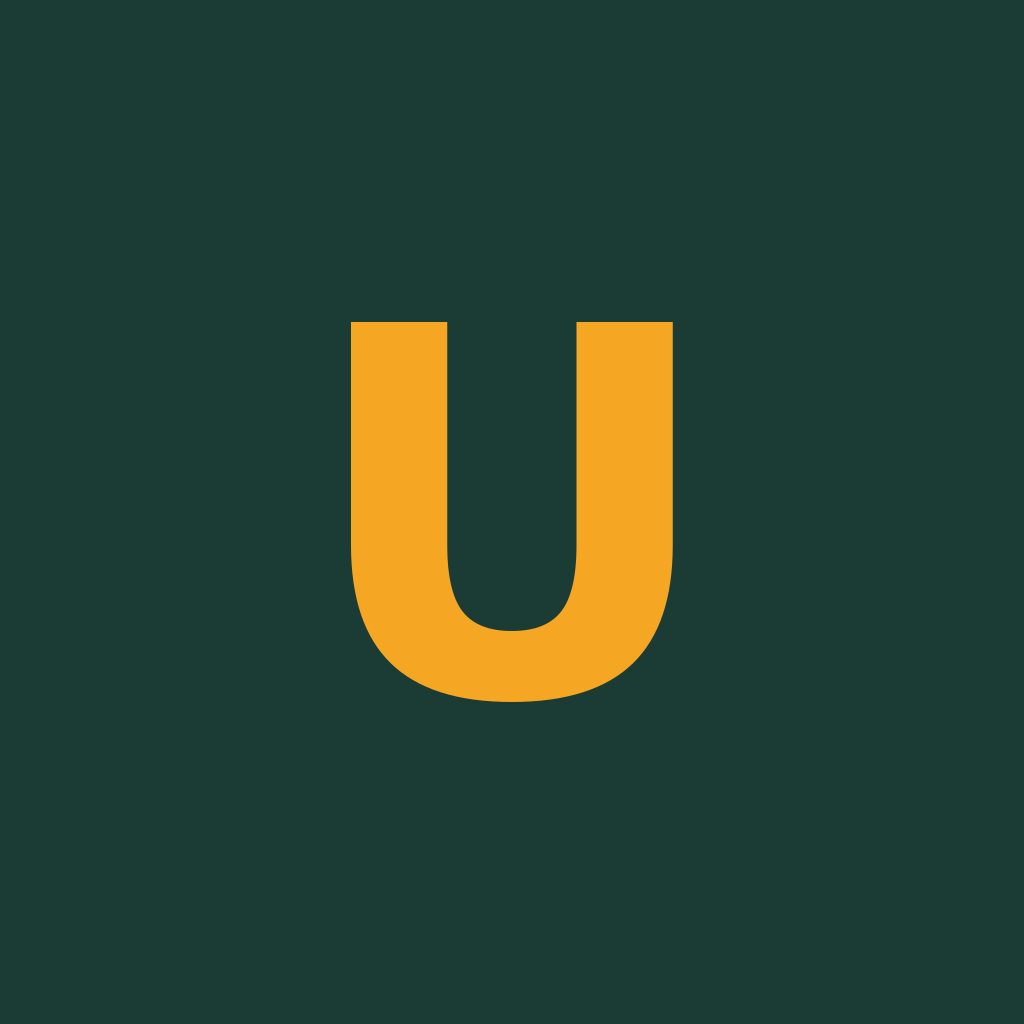
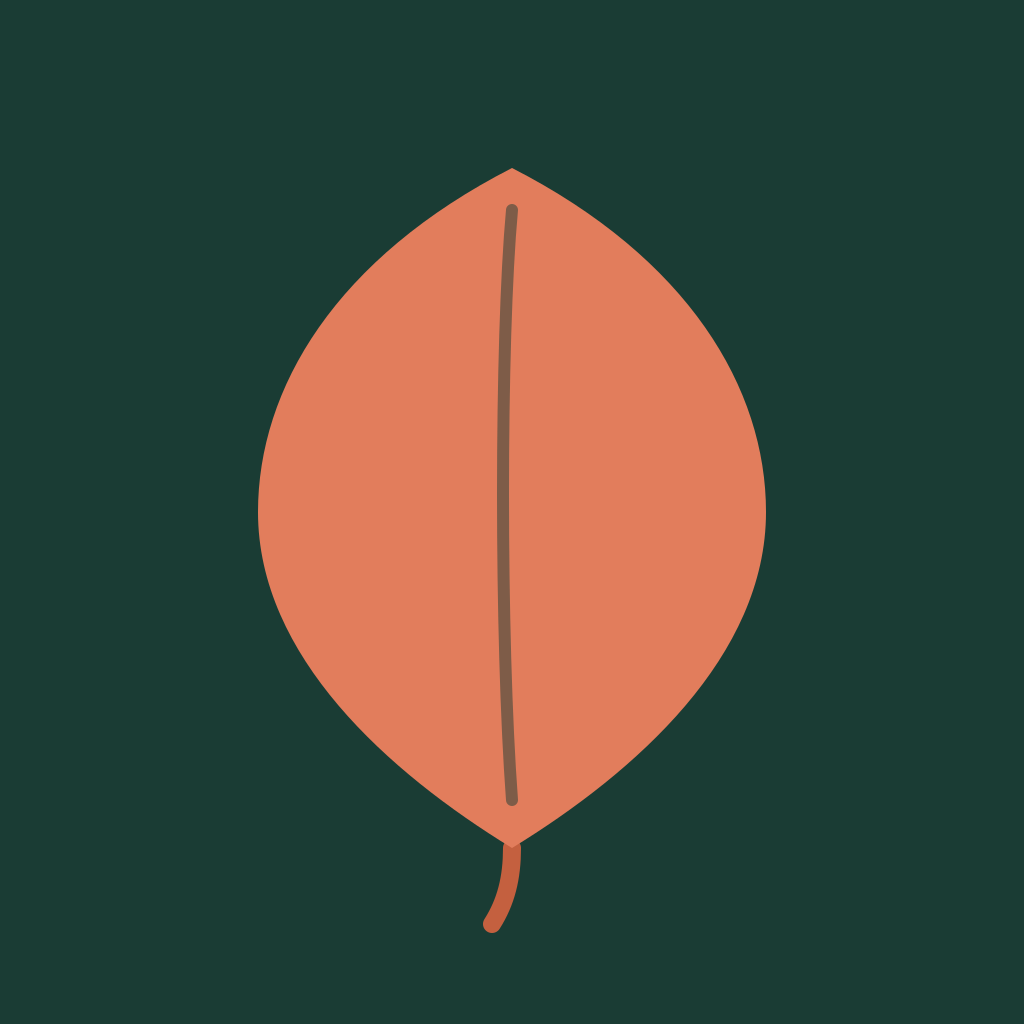
Polish pass: real branding, pull-to-refresh, and inline form validation
- Replace the placeholder "U" lettermark icon/splash with a coral leaf mark
  on forest green, matching the app's actual color identity
- Add pull-to-refresh to Buyer Dashboard, My Crops, and Vendor Dashboard so
  data can be refreshed in place instead of navigating away and back
- Validate email format and required fields client-side on Signup/Login
  with inline error messages, instead of only surfacing Firebase's generic
  error after a round trip

Changed region(s): [[0.25, 0.1562, 0.75, 0.9062]]

diff --git a/src/screens/onboarding/SignupScreen.jsx b/src/screens/onboarding/SignupScreen.jsx
@@ -14,6 +14,8 @@ const ROLES = [
   { key: "admin", icon: "🛡", title: "Admin", subtitle: "Platform admin" },
 ];
 
+const EMAIL_RE = /^[^\s@]+@[^\s@]+\.[^\s@]+$/;
+
 export default function SignupScreen({ navigation }) {
   const [role, setRole] = useState("farmer");
   const [name, setName] = useState("");
@@ -23,6 +25,7 @@ export default function SignupScreen({ navigation }) {
   const [state, setState] = useState("");
   const [district, setDistrict] = useState("");
   const [loading, setLoading] = useState(false);
+  const [errors, setErrors] = useState({});
 
   const setUser = useAuthStore((s) => s.setUser);
   const setSeller = useAuthStore((s) => s.setSeller);
@@ -40,15 +43,20 @@ export default function SignupScreen({ navigation }) {
     setRole(key);
   };
 
+  const validate = () => {
+    const next = {};
+    if (!name.trim()) next.name = "Enter your full name.";
+    if (!/^\d{10}$/.test(phone.trim())) next.phone = "Enter a 10-digit phone number.";
+    if (!EMAIL_RE.test(email.trim())) next.email = "Enter a valid email address.";
+    if (password.length < 6) next.password = "Password must be at least 6 characters.";
+    if (!state.trim()) next.state = "Enter your state.";
+    if (!district.trim()) next.district = "Enter your district.";
+    setErrors(next);
+    return Object.keys(next).length === 0;
+  };
+
   const handleCreateAccount = async () => {
-    if (!name.trim() || !phone.trim() || !email.trim() || !password || !state.trim() || !district.trim()) {
-      Alert.alert("Missing info", "Please fill in every field.");
-      return;
-    }
-    if (password.length < 6) {
-      Alert.alert("Weak password", "Password must be at least 6 characters.");
-      return;
-    }
+    if (!validate()) return;
     setLoading(true);
     try {
       const firebaseUser = await signUpWithEmail(email.trim(), password);
@@ -104,28 +112,34 @@ export default function SignupScreen({ navigation }) {
       <View style={styles.row}>
         <View style={styles.col}>
           <Text style={styles.label}>Full Name</Text>
-          <TextInput style={styles.input} value={name} onChangeText={setName} placeholderTextColor={colors.textMuted} />
+          <TextInput style={[styles.input, errors.name && styles.inputError]} value={name} onChangeText={setName} placeholderTextColor={colors.textMuted} />
+          {errors.name && <Text style={styles.errorText}>{errors.name}</Text>}
         </View>
         <View style={styles.col}>
           <Text style={styles.label}>Phone</Text>
-          <TextInput style={styles.input} value={phone} onChangeText={setPhone} keyboardType="phone-pad" placeholderTextColor={colors.textMuted} />
+          <TextInput style={[styles.input, errors.phone && styles.inputError]} value={phone} onChangeText={setPhone} keyboardType="phone-pad" maxLength={10} placeholderTextColor={colors.textMuted} />
+          {errors.phone && <Text style={styles.errorText}>{errors.phone}</Text>}
         </View>
       </View>
 
       <Text style={styles.label}>Email</Text>
-      <TextInput style={styles.input} value={email} onChangeText={setEmail} keyboardType="email-address" autoCapitalize="none" placeholderTextColor={colors.textMuted} />
+      <TextInput style={[styles.input, errors.email && styles.inputError]} value={email} onChangeText={setEmail} keyboardType="email-address" autoCapitalize="none" placeholderTextColor={colors.textMuted} />
+      {errors.email && <Text style={styles.errorText}>{errors.email}</Text>}
 
       <Text style={styles.label}>Password</Text>
-      <TextInput style={styles.input} value={password} onChangeText={setPassword} secureTextEntry placeholderTextColor={colors.textMuted} />
+      <TextInput style={[styles.input, errors.password && styles.inputError]} value={password} onChangeText={setPassword} secureTextEntry placeholderTextColor={colors.textMuted} />
+      {errors.password && <Text style={styles.errorText}>{errors.password}</Text>}
 
       <View style={styles.row}>
         <View style={styles.col}>
           <Text style={styles.label}>State</Text>
-          <TextInput style={styles.input} value={state} onChangeText={setState} placeholderTextColor={colors.textMuted} />
+          <TextInput style={[styles.input, errors.state && styles.inputError]} value={state} onChangeText={setState} placeholderTextColor={colors.textMuted} />
+          {errors.state && <Text style={styles.errorText}>{errors.state}</Text>}
         </View>
         <View style={styles.col}>
           <Text style={styles.label}>District</Text>
-          <TextInput style={styles.input} value={district} onChangeText={setDistrict} placeholderTextColor={colors.textMuted} />
+          <TextInput style={[styles.input, errors.district && styles.inputError]} value={district} onChangeText={setDistrict} placeholderTextColor={colors.textMuted} />
+          {errors.district && <Text style={styles.errorText}>{errors.district}</Text>}
         </View>
       </View>
 
@@ -163,6 +177,8 @@ const styles = StyleSheet.create({
   col: { flex: 1 },
   label: { ...typography.caption, color: colors.textPrimary, fontWeight: "600", marginTop: spacing.md, marginBottom: spacing.xs },
   input: { borderWidth: 1, borderColor: colors.border, borderRadius: spacing.buttonRadius, padding: spacing.md, backgroundColor: colors.white, ...typography.body, color: colors.textPrimary },
+  inputError: { borderColor: colors.error },
+  errorText: { ...typography.caption, color: colors.error, marginTop: 4 },
   submitBtn: { backgroundColor: colors.primary, borderRadius: spacing.buttonRadius, paddingVertical: spacing.md, alignItems: "center", marginTop: spacing.xl, minHeight: spacing.minTouchTarget, justifyContent: "center" },
   submitBtnText: { color: colors.white, fontWeight: "700", fontSize: 16 },
   loginLink: { alignItems: "center", marginTop: spacing.lg, minHeight: spacing.minTouchTarget, justifyContent: "center" },

diff --git a/src/screens/onboarding/LoginScreen.jsx b/src/screens/onboarding/LoginScreen.jsx
@@ -1,27 +1,35 @@
 import { useState } from "react";
-import { View, Text, TextInput, TouchableOpacity, StyleSheet, ActivityIndicator, Alert } from "react-native";
+import { View, Text, TextInput, TouchableOpacity, StyleSheet, ActivityIndicator } from "react-native";
 import { colors } from "../../theme/colors";
 import { typography } from "../../theme/typography";
 import { spacing } from "../../theme/spacing";
 import { loginWithEmail } from "../../services/firebase/auth";
 
+const EMAIL_RE = /^[^\s@]+@[^\s@]+\.[^\s@]+$/;
+
 export default function LoginScreen({ navigation }) {
   const [email, setEmail] = useState("");
   const [password, setPassword] = useState("");
   const [loading, setLoading] = useState(false);
+  const [error, setError] = useState(null);
 
   const handleLogin = async () => {
-    if (!email.trim() || !password) {
-      Alert.alert("Missing info", "Enter your email and password.");
+    if (!EMAIL_RE.test(email.trim())) {
+      setError("Enter a valid email address.");
       return;
     }
+    if (!password) {
+      setError("Enter your password.");
+      return;
+    }
+    setError(null);
     setLoading(true);
     try {
       await loginWithEmail(email.trim(), password);
       // AppNavigator's onAuthStateChanged listener picks this up and routes
       // to the right dashboard once it loads the matching profile.
     } catch (e) {
-      Alert.alert("Login failed", "Invalid email or password.");
+      setError("Invalid email or password.");
     } finally {
       setLoading(false);
     }
@@ -31,6 +39,12 @@ export default function LoginScreen({ navigation }) {
     <View style={styles.screen}>
       <Text style={styles.title}>Welcome back</Text>
       <Text style={styles.subtitle}>Sign in to continue.</Text>
+
+      {error && (
+        <View style={styles.errorBanner}>
+          <Text style={styles.errorBannerText}>{error}</Text>
+        </View>
+      )}
 
       <Text style={styles.label}>Email</Text>
       <TextInput style={styles.input} value={email} onChangeText={setEmail} keyboardType="email-address" autoCapitalize="none" placeholderTextColor={colors.textMuted} />
@@ -53,6 +67,8 @@ const styles = StyleSheet.create({
   screen: { flex: 1, backgroundColor: colors.background, padding: spacing.screenPadding, justifyContent: "center" },
   title: { ...typography.h2, color: colors.textPrimary },
   subtitle: { ...typography.body, color: colors.textMuted, marginTop: spacing.xs, marginBottom: spacing.lg },
+  errorBanner: { backgroundColor: "#FDECEA", padding: spacing.md, borderRadius: spacing.cardRadius, marginBottom: spacing.md },
+  errorBannerText: { ...typography.caption, color: colors.error },
   label: { ...typography.caption, color: colors.textPrimary, fontWeight: "600", marginTop: spacing.md, marginBottom: spacing.xs },
   input: { borderWidth: 1, borderColor: colors.border, borderRadius: spacing.buttonRadius, padding: spacing.md, backgroundColor: colors.white, ...typography.body, color: colors.textPrimary },
   submitBtn: { backgroundColor: colors.primary, borderRadius: spacing.buttonRadius, paddingVertical: spacing.md, alignItems: "center", marginTop: spacing.xl, minHeight: spacing.minTouchTarget, justifyContent: "center" },

diff --git a/src/screens/seller/SellerDashboardScreen.jsx b/src/screens/seller/SellerDashboardScreen.jsx
@@ -1,5 +1,5 @@
-import { useEffect, useState } from "react";
-import { View, Text, StyleSheet, FlatList, TouchableOpacity, Alert } from "react-native";
+import { useCallback, useEffect, useState } from "react";
+import { View, Text, StyleSheet, FlatList, TouchableOpacity, Alert, RefreshControl } from "react-native";
 import { colors } from "../../theme/colors";
 import { typography } from "../../theme/typography";
 import { spacing } from "../../theme/spacing";
@@ -23,6 +23,14 @@ export default function SellerDashboardScreen({ navigation }) {
   const [pendingOrders, setPendingOrders] = useState([]);
   const [allOrders, setAllOrders] = useState([]);
   const [loadError, setLoadError] = useState(null);
+  const [refreshing, setRefreshing] = useState(false);
+
+  const loadOrders = useCallback(() => {
+    if (!seller?.uid) return Promise.resolve();
+    return getSellerOrders(seller.uid)
+      .then(({ orders }) => setAllOrders(orders))
+      .catch((error) => setLoadError(error.message));
+  }, [seller?.uid]);
 
   useEffect(() => {
     if (!seller?.uid) return;
@@ -30,11 +38,15 @@ export default function SellerDashboardScreen({ navigation }) {
     const unsubscribe = listenToSellerPendingOrders(seller.uid, setPendingOrders, (error) =>
       setLoadError(error.message)
     );
-    getSellerOrders(seller.uid)
-      .then(({ orders }) => setAllOrders(orders))
-      .catch((error) => setLoadError(error.message));
+    loadOrders();
     return unsubscribe;
-  }, [seller?.uid]);
+  }, [seller?.uid, loadOrders]);
+
+  const handleRefresh = () => {
+    setRefreshing(true);
+    setLoadError(null);
+    loadOrders().finally(() => setRefreshing(false));
+  };
 
   const todayOrders = allOrders.filter((o) => isToday(o.createdAt));
   const todayGmv = todayOrders.reduce((sum, o) => sum + (o.total || 0), 0);
@@ -97,6 +109,7 @@ export default function SellerDashboardScreen({ navigation }) {
         data={allOrders}
         keyExtractor={(item) => item.id}
         contentContainerStyle={styles.list}
+        refreshControl={<RefreshControl refreshing={refreshing} onRefresh={handleRefresh} colors={[colors.primary]} tintColor={colors.primary} />}
         ListHeaderComponent={
           pendingOrders.length > 0 && (
             <View style={styles.pendingSection}>

diff --git a/src/screens/farmer/MyCropsScreen.jsx b/src/screens/farmer/MyCropsScreen.jsx
@@ -1,6 +1,6 @@
 import { useCallback, useState } from "react";
 import { useFocusEffect } from "@react-navigation/native";
-import { View, Text, StyleSheet, TouchableOpacity, FlatList, ActivityIndicator } from "react-native";
+import { View, Text, StyleSheet, TouchableOpacity, FlatList, ActivityIndicator, RefreshControl } from "react-native";
 import { colors } from "../../theme/colors";
 import { typography } from "../../theme/typography";
 import { spacing } from "../../theme/spacing";
@@ -16,22 +16,31 @@ export default function MyCropsScreen({ navigation }) {
   const { user } = useAuthStore();
   const [listings, setListings] = useState([]);
   const [loading, setLoading] = useState(true);
+  const [refreshing, setRefreshing] = useState(false);
   const [loadError, setLoadError] = useState(false);
+
+  const loadListings = useCallback(() => {
+    if (!user?.uid) return Promise.resolve();
+    setLoadError(false);
+    return getFarmerCropListings(user.uid)
+      .then(setListings)
+      .catch((error) => {
+        console.error("getFarmerCropListings failed:", error);
+        setLoadError(true);
+      });
+  }, [user?.uid]);
 
   useFocusEffect(
     useCallback(() => {
-      if (!user?.uid) return;
       setLoading(true);
-      setLoadError(false);
-      getFarmerCropListings(user.uid)
-        .then(setListings)
-        .catch((error) => {
-          console.error("getFarmerCropListings failed:", error);
-          setLoadError(true);
-        })
-        .finally(() => setLoading(false));
-    }, [user?.uid])
+      loadListings().finally(() => setLoading(false));
+    }, [loadListings])
   );
+
+  const handleRefresh = () => {
+    setRefreshing(true);
+    loadListings().finally(() => setRefreshing(false));
+  };
 
   return (
     <View style={styles.screen}>
@@ -58,6 +67,7 @@ export default function MyCropsScreen({ navigation }) {
           data={listings}
           keyExtractor={(item) => item.id}
           contentContainerStyle={styles.list}
+          refreshControl={<RefreshControl refreshing={refreshing} onRefresh={handleRefresh} colors={[colors.primary]} tintColor={colors.primary} />}
           renderItem={({ item }) => (
             <View style={styles.card}>
               <View style={{ flex: 1 }}>

diff --git a/src/screens/buyer/BuyerDashboardScreen.jsx b/src/screens/buyer/BuyerDashboardScreen.jsx
@@ -1,5 +1,5 @@
-import { useEffect, useState } from "react";
-import { View, Text, StyleSheet, TouchableOpacity, FlatList, ActivityIndicator } from "react-native";
+import { useCallback, useEffect, useState } from "react";
+import { View, Text, StyleSheet, TouchableOpacity, FlatList, ActivityIndicator, RefreshControl } from "react-native";
 import { colors } from "../../theme/colors";
 import { typography } from "../../theme/typography";
 import { spacing } from "../../theme/spacing";
@@ -21,19 +21,28 @@ export default function BuyerDashboardScreen({ navigation }) {
   const [tab, setTab] = useState("Procurement");
   const [requests, setRequests] = useState([]);
   const [loading, setLoading] = useState(true);
+  const [refreshing, setRefreshing] = useState(false);
   const [loadError, setLoadError] = useState(false);
 
-  useEffect(() => {
-    if (!buyer?.uid) return;
+  const loadRequests = useCallback(() => {
+    if (!buyer?.uid) return Promise.resolve();
     setLoadError(false);
-    getBuyerProcurementRequests(buyer.uid)
+    return getBuyerProcurementRequests(buyer.uid)
       .then(setRequests)
       .catch((error) => {
         console.error("getBuyerProcurementRequests failed:", error);
         setLoadError(true);
-      })
-      .finally(() => setLoading(false));
+      });
   }, [buyer?.uid]);
+
+  useEffect(() => {
+    loadRequests().finally(() => setLoading(false));
+  }, [loadRequests]);
+
+  const handleRefresh = () => {
+    setRefreshing(true);
+    loadRequests().finally(() => setRefreshing(false));
+  };
 
   const savedFarmerIds = buyer?.savedFarmerIds || [];
 
@@ -94,6 +103,7 @@ export default function BuyerDashboardScreen({ navigation }) {
             <FlatList
               data={requests}
               keyExtractor={(item) => item.id}
+              refreshControl={<RefreshControl refreshing={refreshing} onRefresh={handleRefresh} colors={[colors.primary]} tintColor={colors.primary} />}
               renderItem={({ item }) => (
                 <View style={styles.requestCard}>
                   <View style={{ flex: 1 }}>
